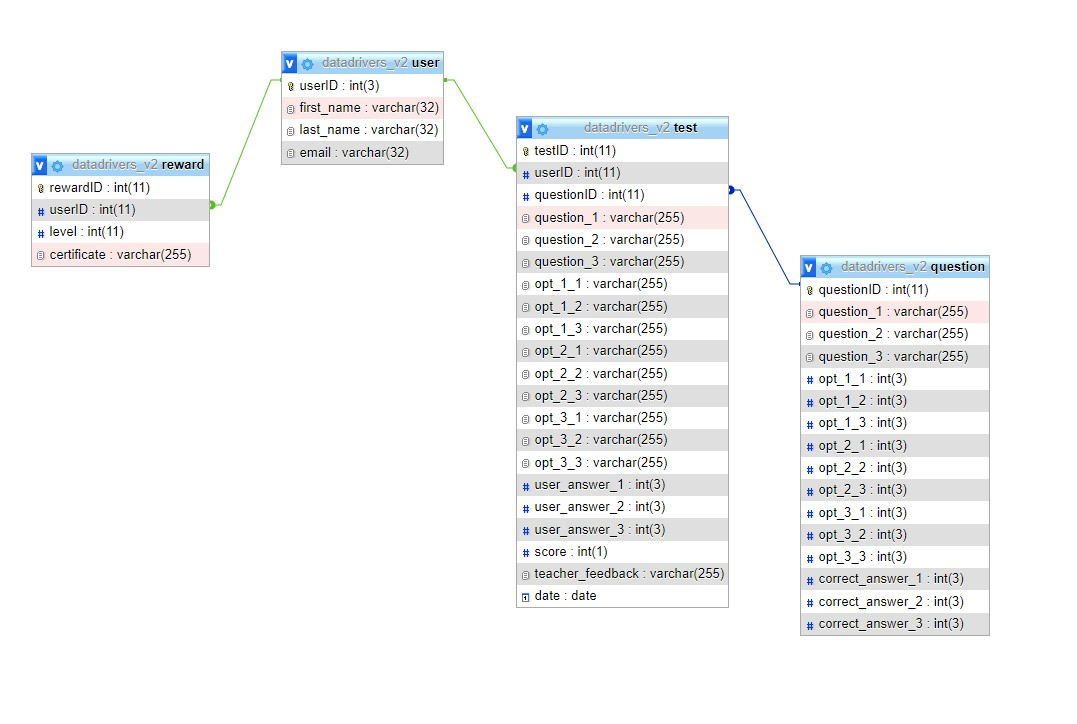
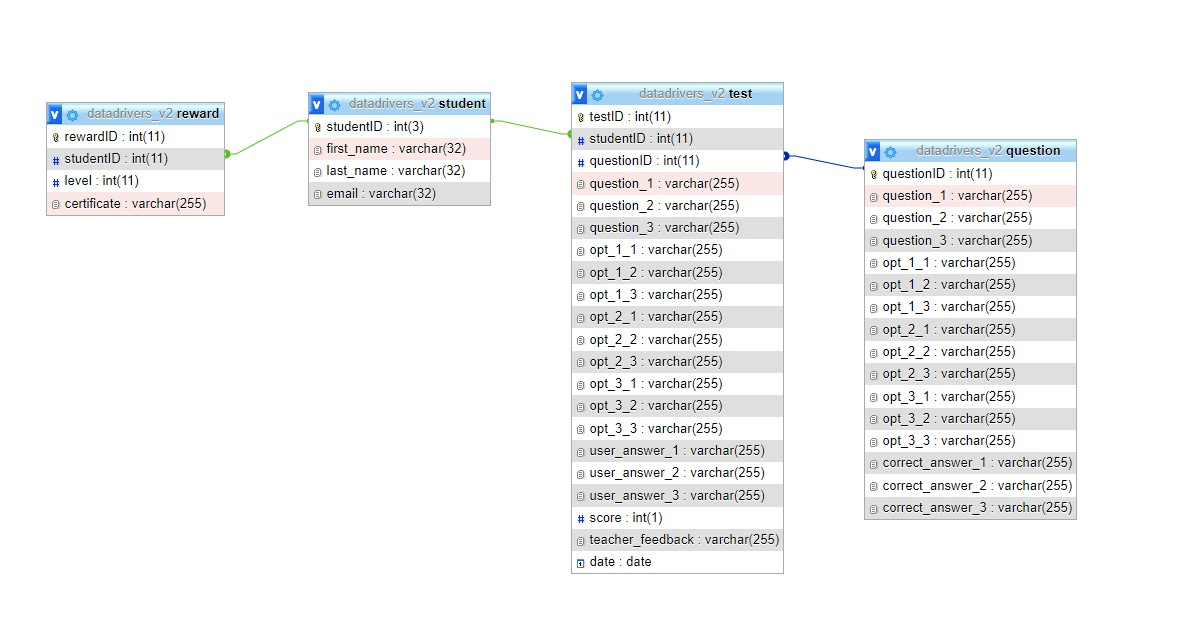
New database datadrivers_v2 and dbConnec and db sql file

Changed region(s): [[0.0306, 0.0599, 0.9192, 0.8991]]

diff --git a/includes/dbConnect.php b/includes/dbConnect.php
@@ -17,9 +17,9 @@
 // $conn = new mysqli(DB_HOST, DB_USER, DB_PASS, DB_NAME);
 
 $dbHost = 'localhost';
-$dbUser = 'fullstack';
-$dbPass = 'fullstack';
-$dbName = 'datadrivers';
+$dbUser = 'datadrivers_v2';
+$dbPass = 'datadrivers_v2';
+$dbName = 'datadrivers_v2';
 
 $conn = new mysqli($dbHost, $dbUser, $dbPass, $dbName);
 
